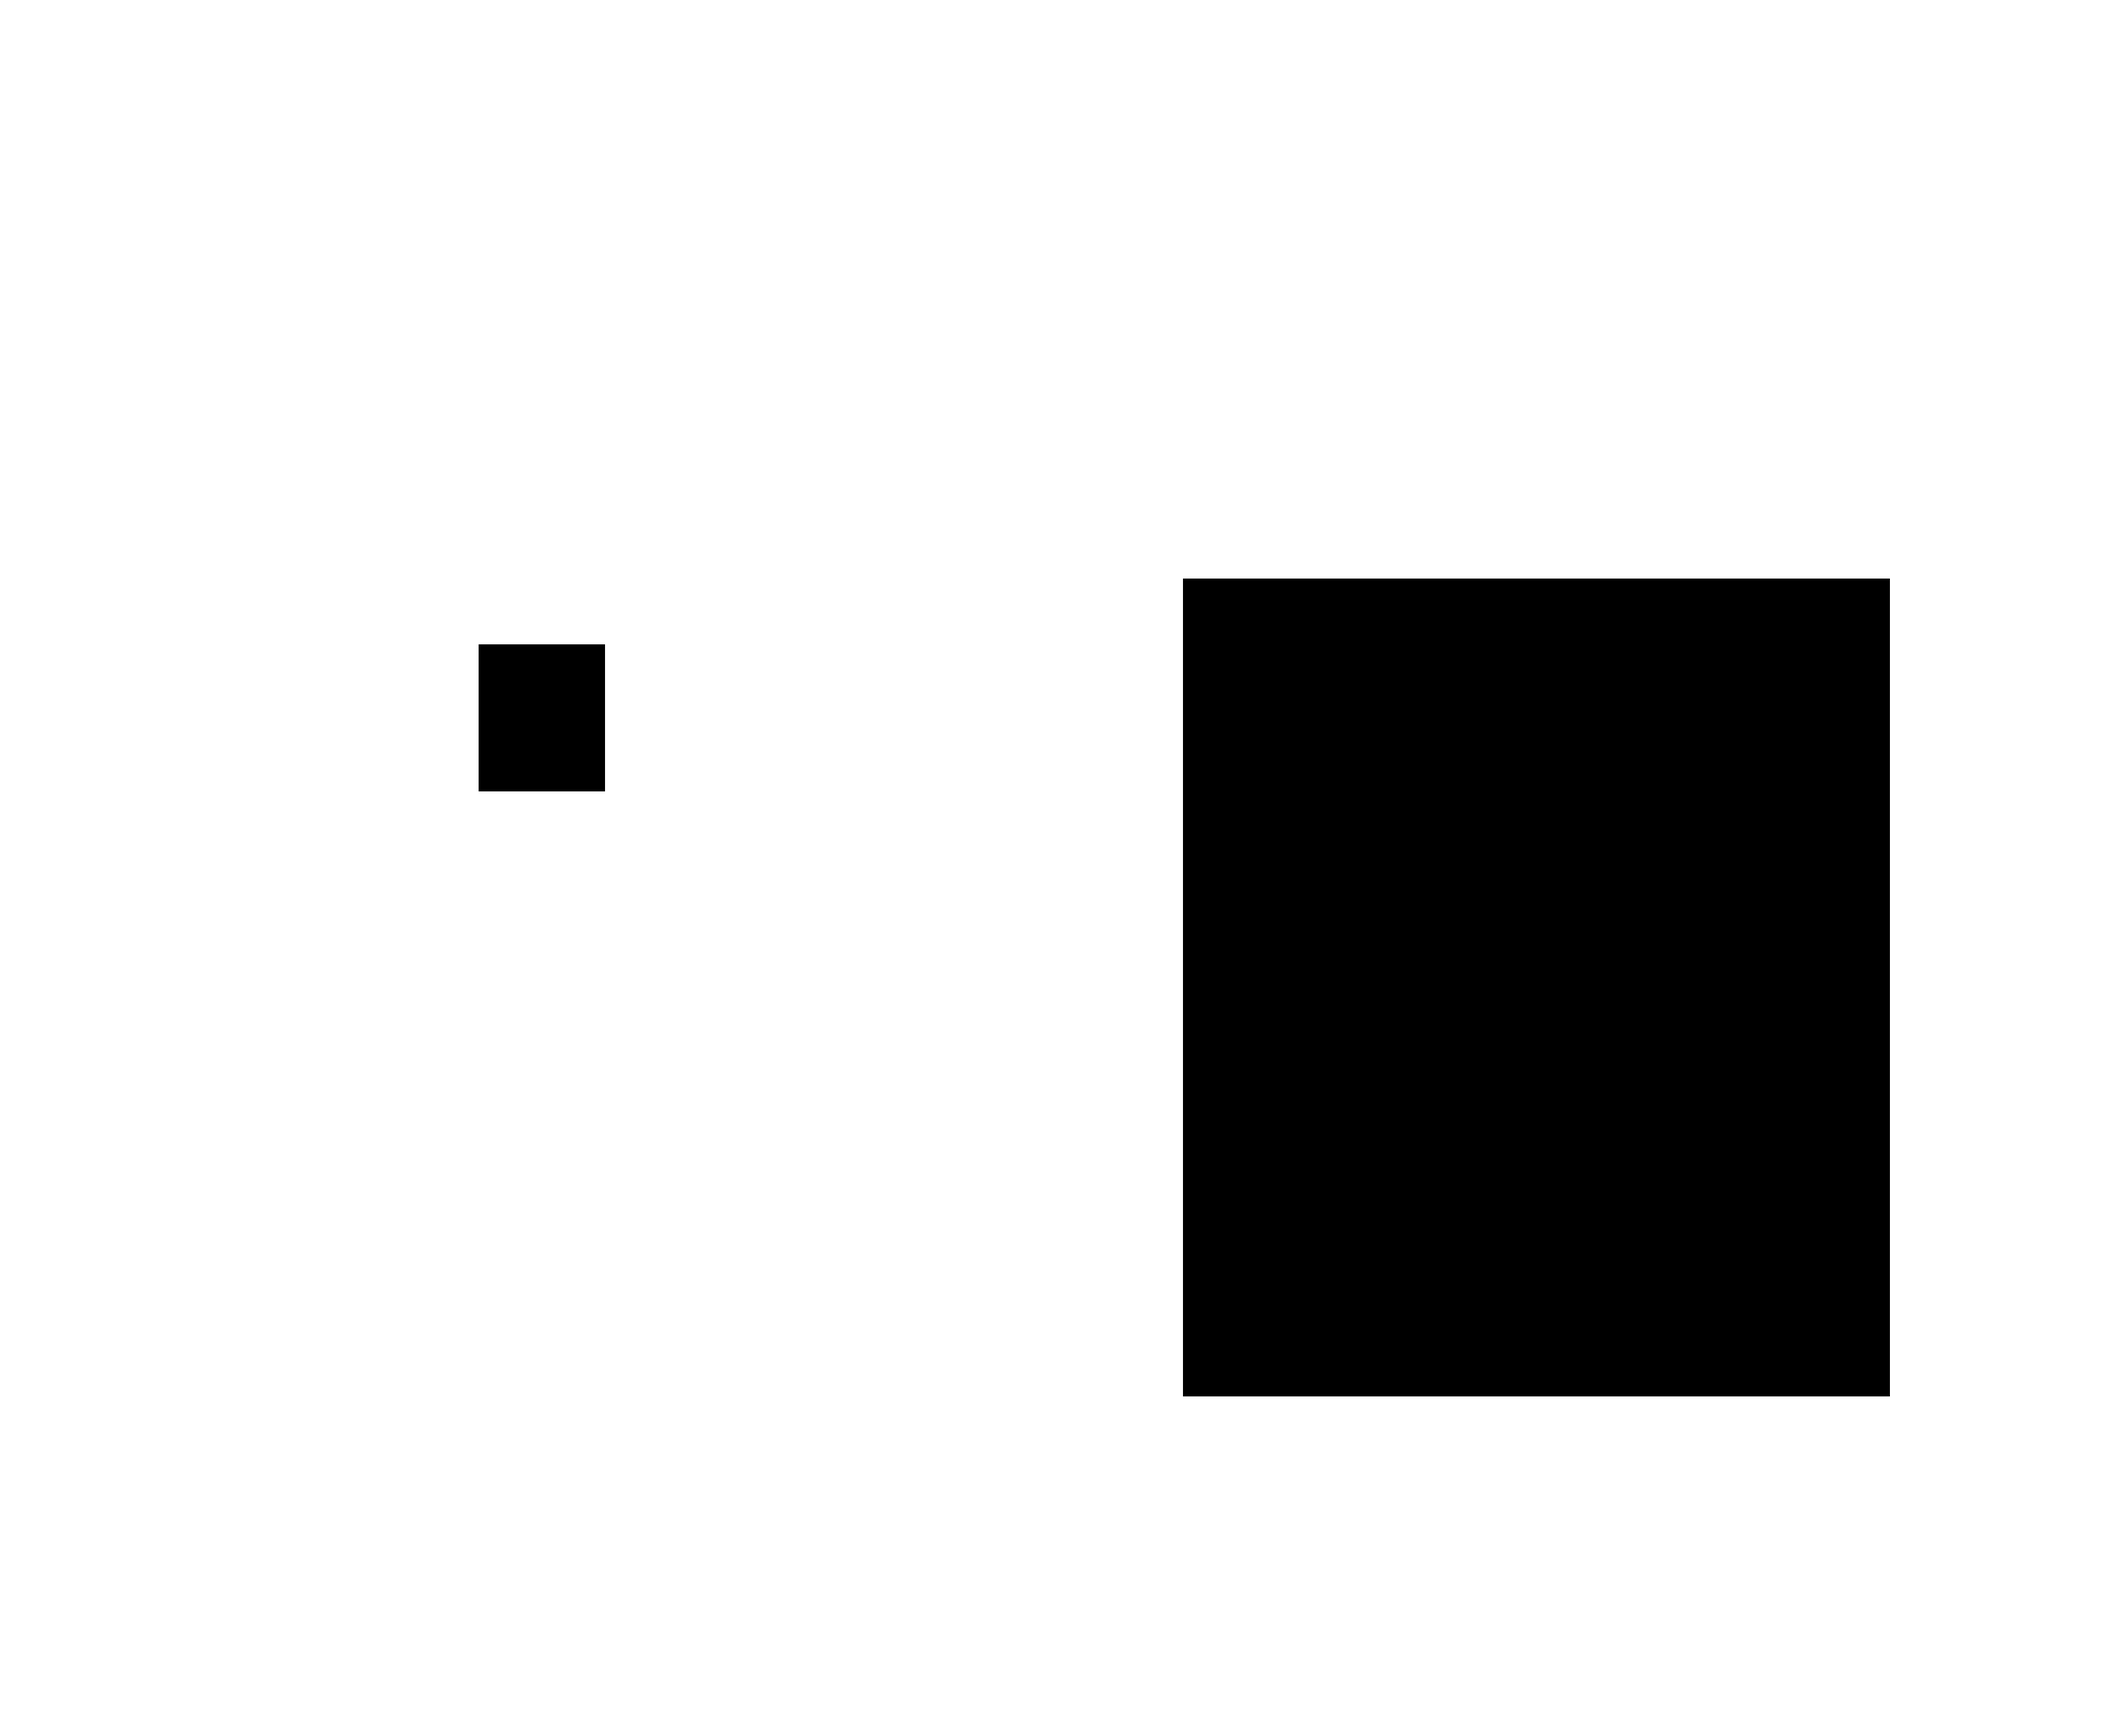
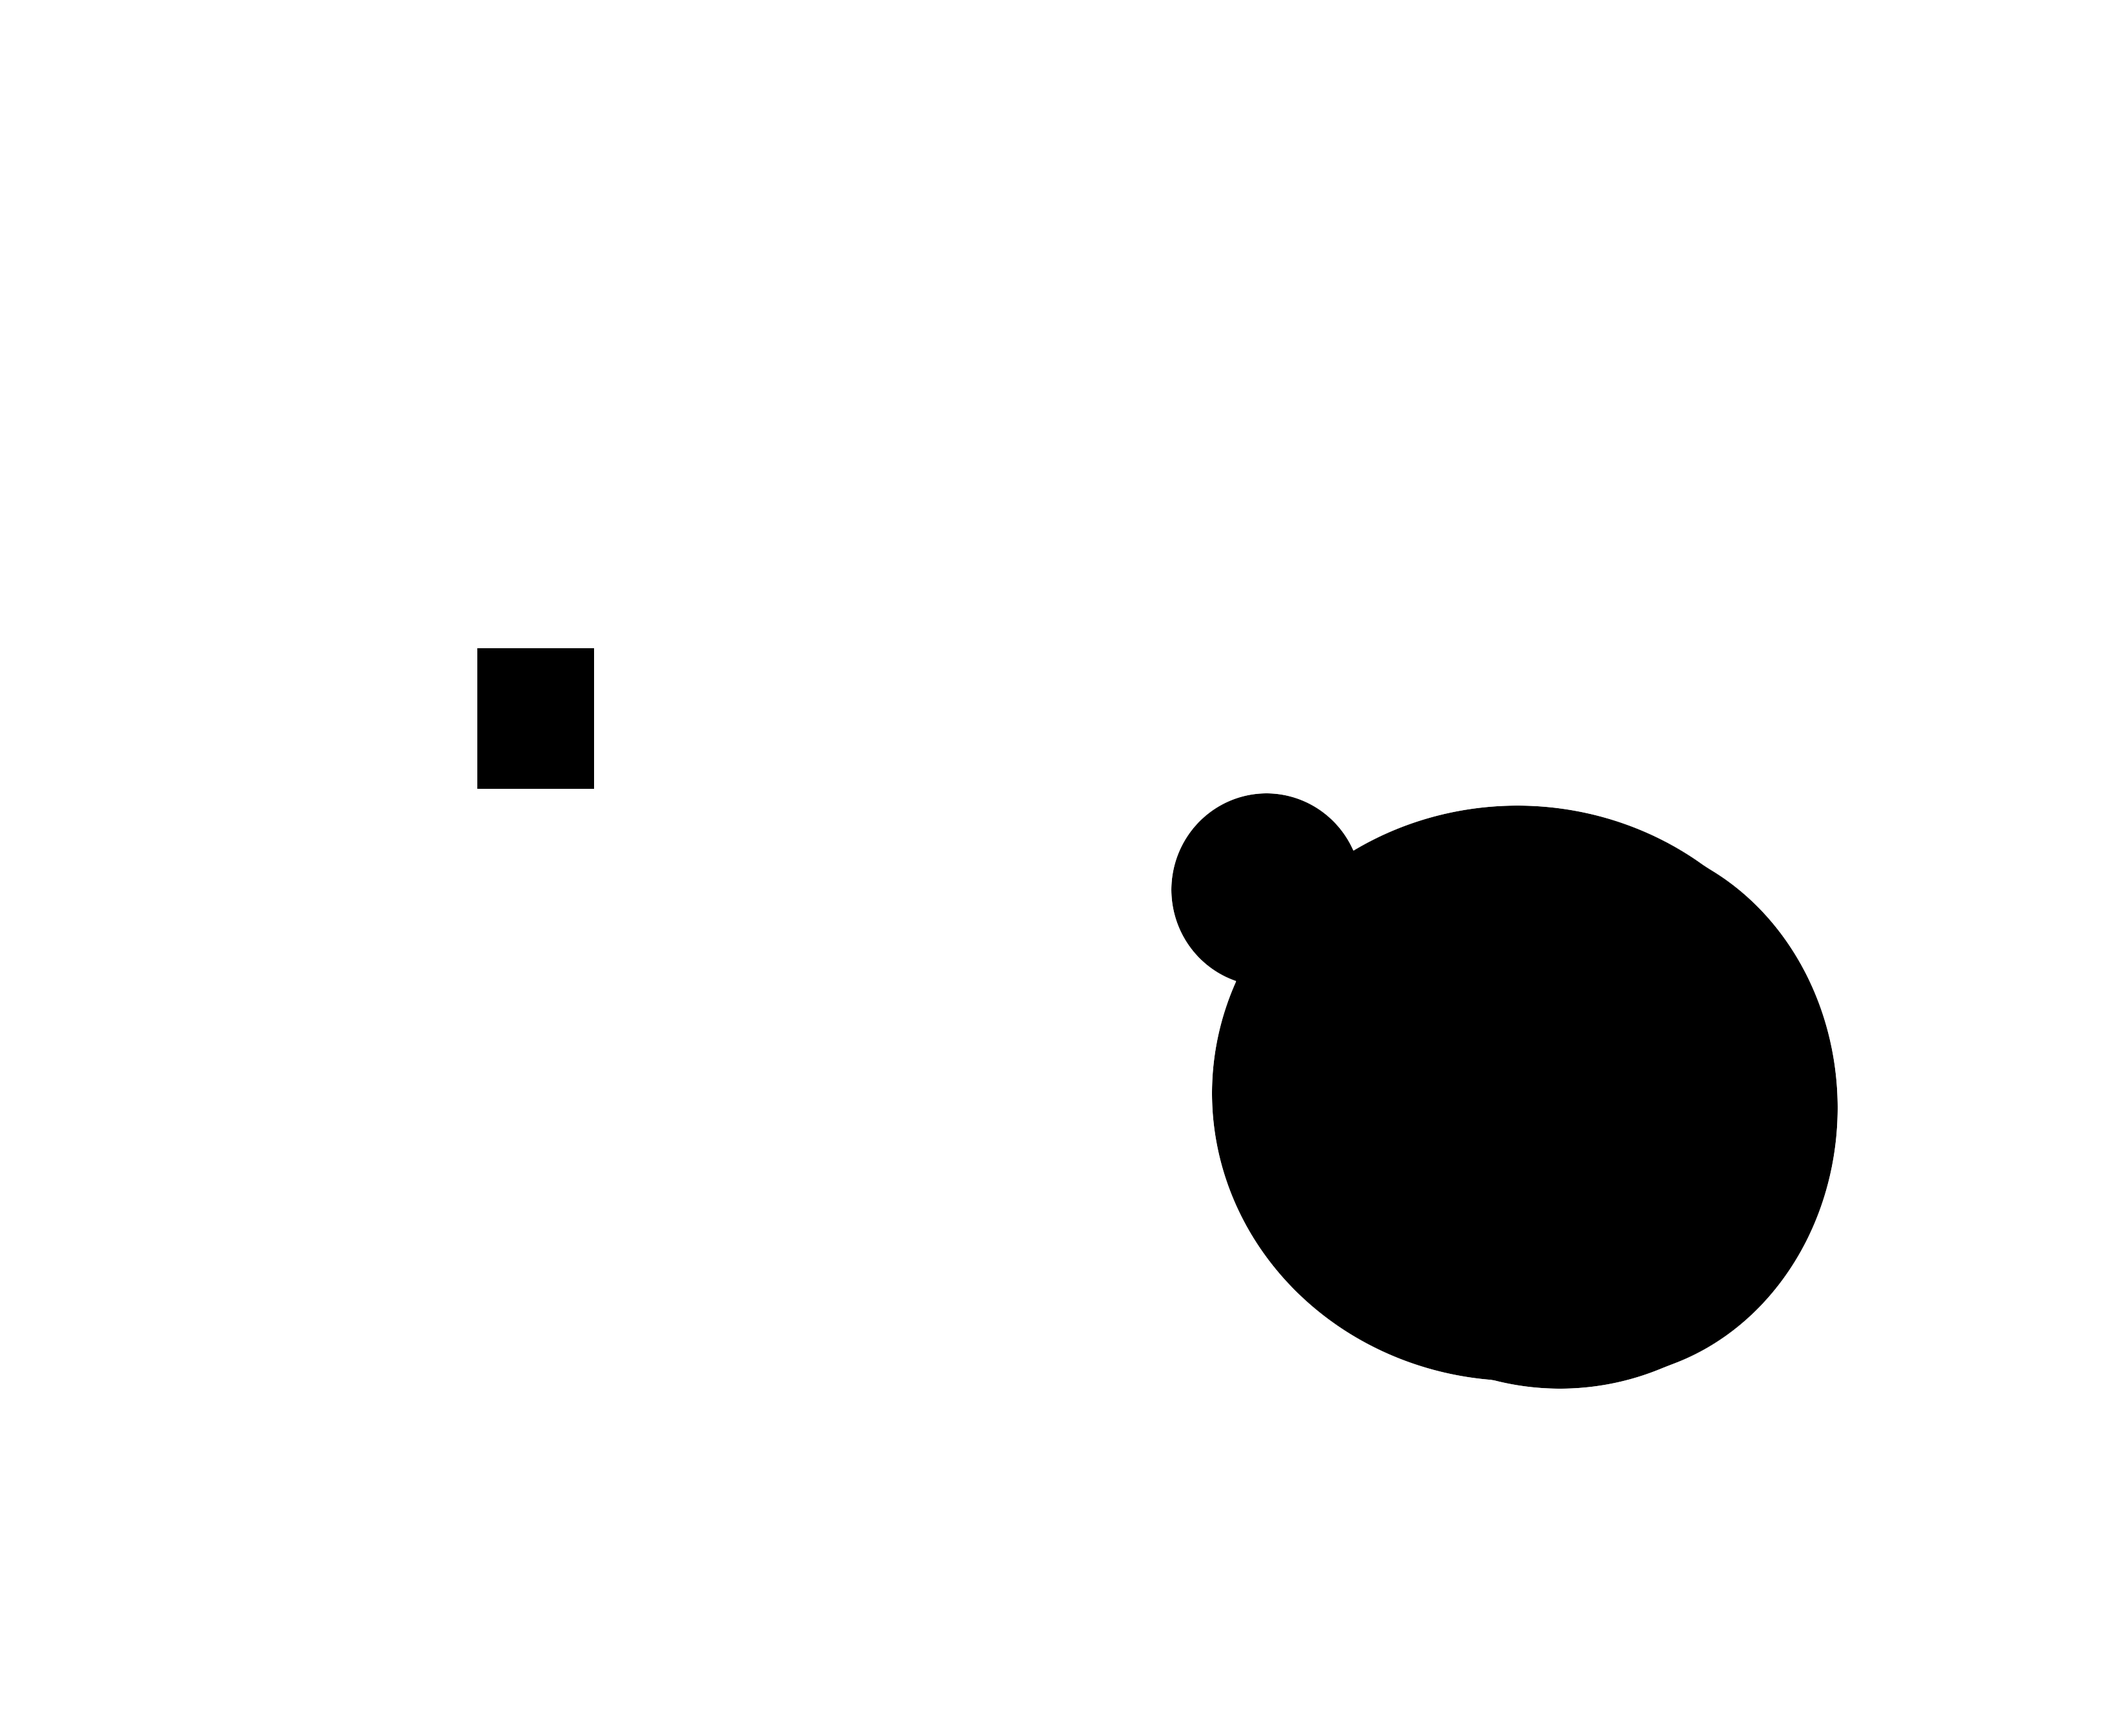
mask edits

diff --git a/books/bluerose.html b/books/bluerose.html
@@ -300,6 +300,7 @@ let currentMaskCanvas = null;
 let currentMaskCtx = null;
 
 const yaySound = new Audio('yay.mp3');
+const winSound = new Audio('win.mp3');
 
 function hexToRgb(hex) {
   const bigint = parseInt(hex.replace('#', ''), 16);
@@ -947,7 +948,11 @@ document.addEventListener('DOMContentLoaded', () => {
                     // Inside your item selection/click handler:
                     const currentPercentage = (foundScorsbies.size / totalScorsbies) * 100;
                     if (currentPercentage >= 90) {
-                        setTimeout(() => { window.location.href = 'secret.html'; }, 1500);
+                        yaySound.pause();
+                        yaySound.currentTime = 0;
+                        winSound.currentTime = 0; // Reset to start in case of rapid clicks
+                        winSound.play().catch(e => console.error("Audio playback failed:", e));
+                        setTimeout(() => { window.location.href = 'secret.html'; }, 3000);
                     }
                     /*if (foundScorsbies.size === totalScorsbies && totalScorsbies > 0) {
                         setTimeout(() => { window.location.href = 'secret.html'; }, 1500);
